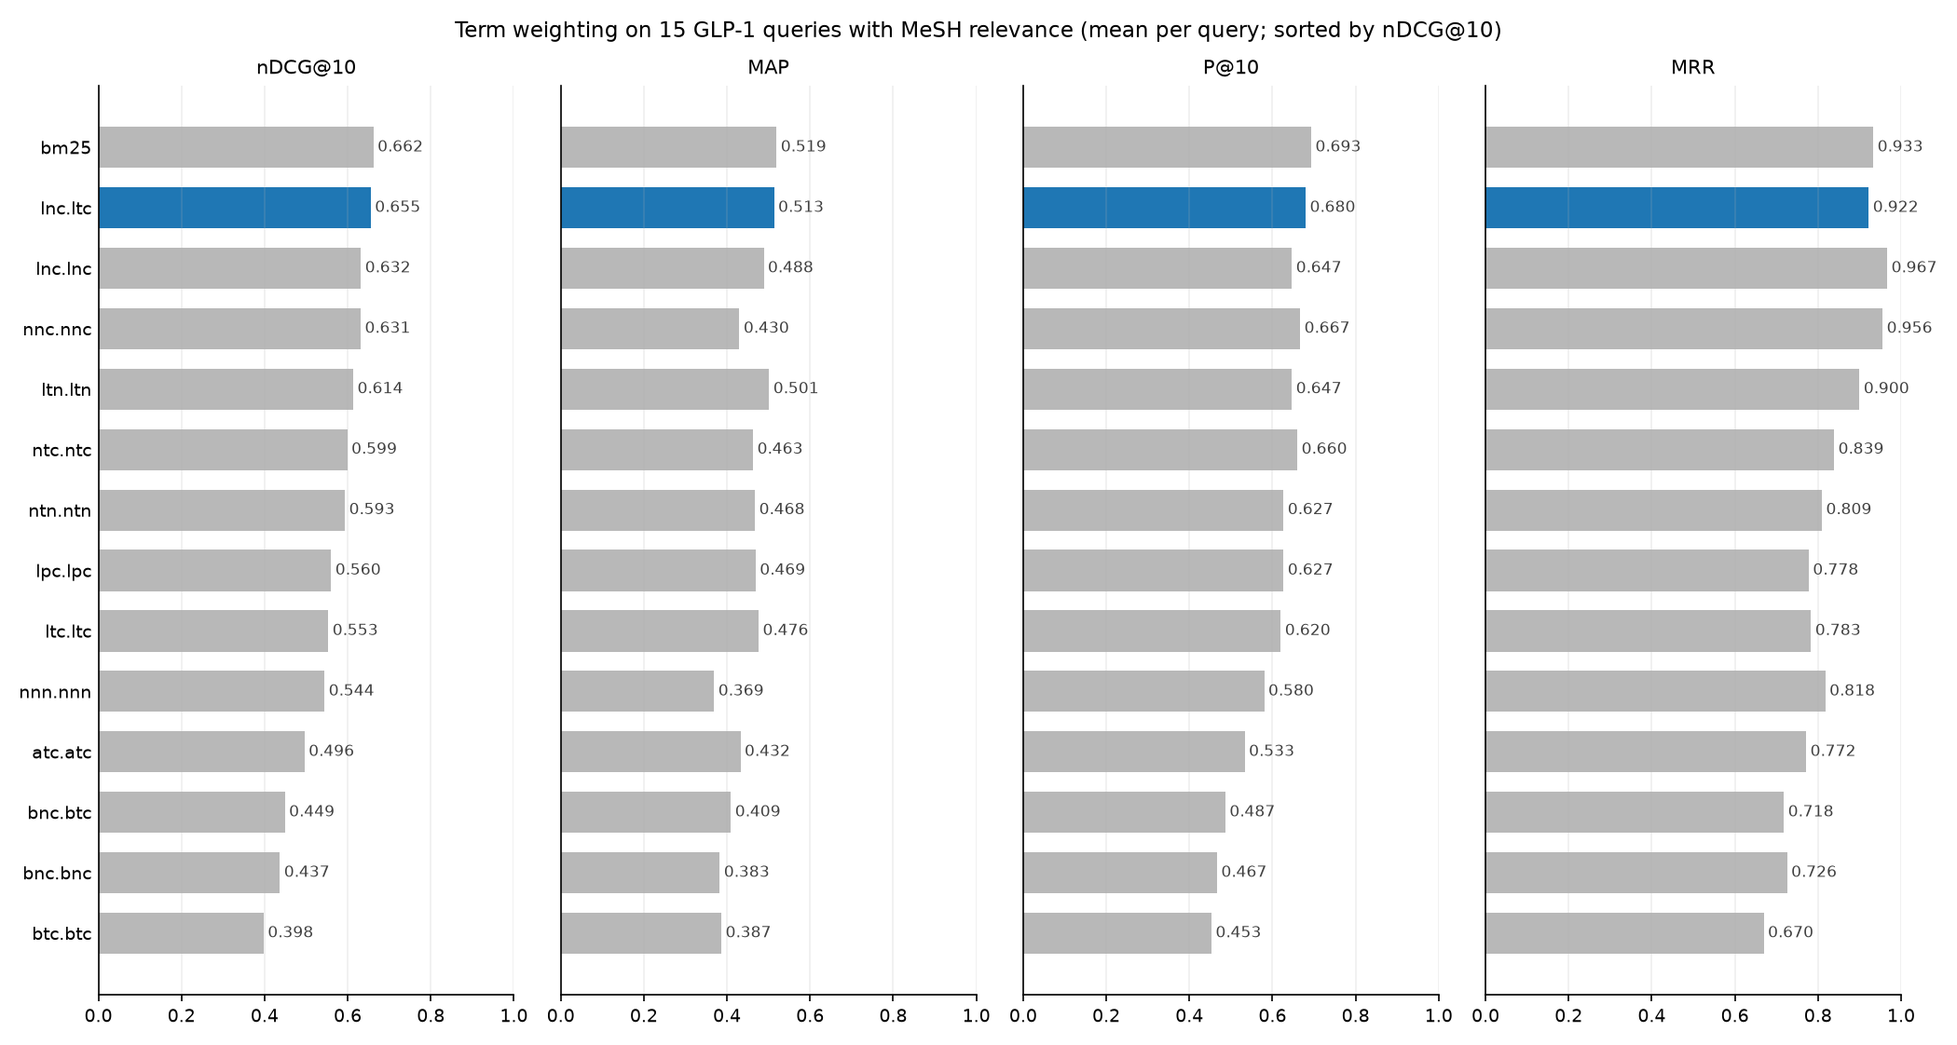
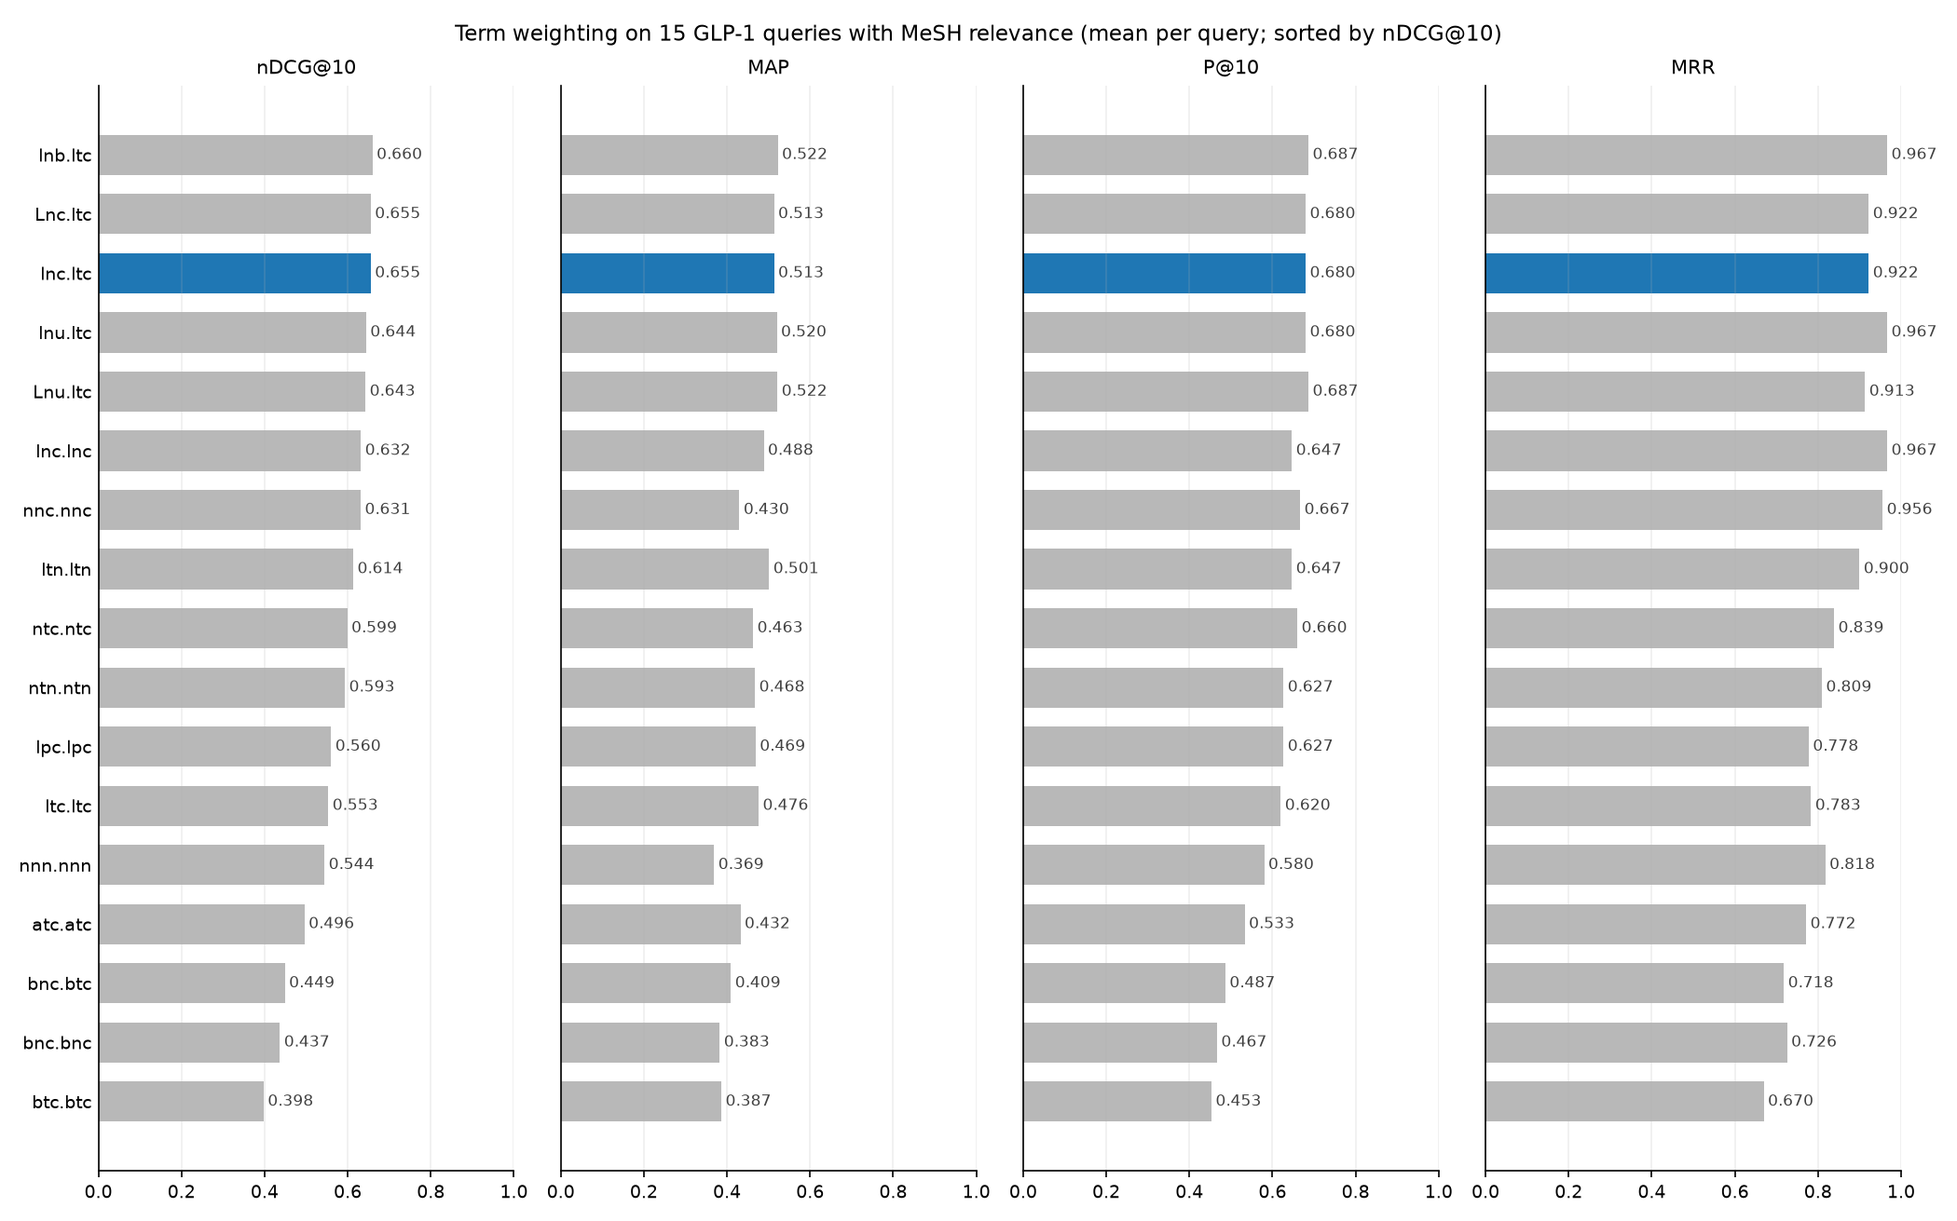
Complete the lecture's SMART weighting table and drop BM25 from homework 3
Add the remaining variants from Lecture 3's SMART table: TF L (log average),
normalization u (pivoted unique) and b (byte size), plus a configurable log base.
Letters are now case-sensitive, as in SMART.

The homework 3 comparisons now use only formulas from the lecture, so BM25 is
removed from the vector-space engine and experiment (the search page keeps it).
New tests reproduce the lecture's ltn.lnc example (3.08), check that the IDF log
base does not change cosine rankings, and that cosine cancels L.

Results are regenerated for 17 schemes; README documents the new RQ1/RQ4 findings
and that this project writes ddd.qqq while the lecture writes qqq.ddd.

diff --git a/tests/test_vsm.py b/tests/test_vsm.py
@@ -32,11 +32,62 @@ class WeightingTest(unittest.TestCase):
         self.assertAlmostEqual(Weighting("n", "p", "n").idf_weight(2, 8), math.log(3))
         self.assertEqual(Weighting("n", "p", "n").idf_weight(5, 8), 0.0)     # df above N/2
 
+    def test_log_average_tf_and_length_divisors(self):
+        L = Weighting("L", "n", "n")
+        self.assertAlmostEqual(L.tf_weight(4, 4, average_tf=2), (1 + math.log(4)) / (1 + math.log(2)))
+        self.assertEqual(L.tf_weight(2, 4, average_tf=2), 1.0)          # a term at the text's average
+        self.assertAlmostEqual(Weighting("l", "n", "c").divisor([3, 4], 2, 99, 50), 5.0)
+        self.assertAlmostEqual(Weighting("l", "n", "u").divisor([3, 4], 100, 99, 50), 0.8 * 50 + 0.2 * 100)
+        self.assertAlmostEqual(Weighting("l", "n", "b").divisor([3, 4], 2, 256, 50), 256 ** 0.375)
+        self.assertEqual(Weighting("l", "n", "n").divisor([3, 4], 2, 99, 50), 1.0)
+
+    def test_lecture_example_ltn_lnc(self):
+        """Lecture 3, "tf-idf example: ltn.lnc" — query "best car insurance", document
+        "car insurance auto insurance", N = 1,000,000, log base 10. The lecture writes
+        query.document; here that is the document scheme lnc with the query scheme ltn."""
+        N = 1_000_000
+        df = {"auto": 5000, "best": 50000, "car": 10000, "insurance": 1000}
+        query_tf = {"best": 1, "car": 1, "insurance": 1}
+        document_tf = {"auto": 1, "car": 1, "insurance": 2}
+        query, document = Weighting("l", "t", "n", base=10), Weighting("l", "n", "c", base=10)
+
+        q = {t: query.tf_weight(tf, 1) * query.idf_weight(df[t], N) for t, tf in query_tf.items()}
+        self.assertEqual([round(q[t], 1) for t in ("best", "car", "insurance")], [1.3, 2.0, 3.0])
+
+        d = {t: document.tf_weight(tf, 2) * document.idf_weight(df[t], N) for t, tf in document_tf.items()}
+        length = document.divisor(d.values(), 3, 0, 0)
+        self.assertAlmostEqual(length, 1.92, places=2)                  # √(1² + 1² + 1.3²)
+        d = {t: w / length for t, w in d.items()}
+        self.assertEqual([round(d[t], 2) for t in ("auto", "car", "insurance")], [0.52, 0.52, 0.68])
+
+        self.assertAlmostEqual(sum(q[t] * d.get(t, 0) for t in q), 3.08, delta=0.01)
+        # The lecture's 3.08 adds the rounded products 1.04 + 2.04; unrounded it is 3.07.
+        self.assertAlmostEqual(sum(round(q[t], 1) * round(d.get(t, 0), 2) for t in q), 3.08)
+
+    def test_idf_log_base_does_not_change_cosine(self):
+        """Lecture 3: "Why is the base of the log in idf immaterial?" — it rescales every IDF
+        by one constant, which L2 normalization cancels."""
+        space = VectorSpace(DOCS)
+        rankings = [[(h.pmid, round(h.score, 12)) for h in space.search("semaglutide insulin weight",
+                                                                        Scheme(Weighting("n", "t", "c", base),
+                                                                               Weighting("n", "t", "c", base))).hits]
+                    for base in (math.e, 10, 2)]
+        self.assertEqual(rankings[0], rankings[1])
+        self.assertEqual(rankings[0], rankings[2])
+
+    def test_cosine_cancels_log_average_tf(self):
+        """L divides every term of a document by the same 1 + log(ave tf), so after L2
+        normalization Lnc and lnc are the same vector; with u they are not."""
+        space = VectorSpace(DOCS)
+        scores = lambda code: [(h.pmid, round(h.score, 12)) for h in space.search("semaglutide weight", code).hits]
+        self.assertEqual(scores("Lnc.ltc"), scores("lnc.ltc"))
+        self.assertNotEqual(scores("Lnu.ltc"), scores("lnu.ltc"))
+
     def test_schemes(self):
-        scheme = Scheme.parse("LNC.ltc")
+        scheme = Scheme.parse("lnc.ltc")
         self.assertEqual((scheme.document.code, scheme.query.code, scheme.code), ("lnc", "ltc", "lnc.ltc"))
-        self.assertIsNone(Scheme.parse("bm25").document)
-        for bad in ("ltc", "xtc.ltc", "lnc.ltcc", "lnc-ltc"):
+        self.assertEqual(Scheme.parse("Lnu.ltc").document.describe(), "log average TF × no IDF, pivoted unique")
+        for bad in ("ltc", "xtc.ltc", "lnc.ltcc", "lnc-ltc", "LNC.ltc", "bm25"):
             with self.subTest(bad=bad), self.assertRaises(ValueError):
                 Scheme.parse(bad)
 
@@ -78,7 +129,7 @@ class EngineTest(unittest.TestCase):
         self.assertEqual(len(ranking.hits), 1)
         self.assertEqual(ranking.unknown, ["unicorn"])
         self.assertEqual(self.space.search("the of", "lnc.ltc").hits, [])
-        self.assertTrue(self.space.search("semaglutide weight", "bm25").hits)
+        self.assertTrue(self.space.search("semaglutide weight", "lnb.ltc").hits)
         # Ties are broken by PMID, so rankings are reproducible.
         tied = self.space.search("secretion", "bnc.bnc").hits
         self.assertEqual([h.pmid for h in tied], sorted(h.pmid for h in tied))
@@ -141,8 +192,8 @@ class ExperimentTest(unittest.TestCase):
                 {"id": "Q1", "query": "semaglutide weight", "mesh_all": ["Semaglutide"]},
                 {"id": "Q2", "query": "insulin secretion", "mesh_any": ["Insulin"]}]}), encoding="utf-8")
             self.assertEqual([q.id for q in load_queries(queries)], ["Q1", "Q2"])
-            summary = run(DOCS, queries, Path(folder, "out"), ["lnc.ltc", "ltc.ltc", "bm25"])
-            self.assertEqual([r["scheme"] for r in summary], ["lnc.ltc", "ltc.ltc", "bm25"])
+            summary = run(DOCS, queries, Path(folder, "out"), ["lnc.ltc", "ltc.ltc", "lnu.ltc"])
+            self.assertEqual([r["scheme"] for r in summary], ["lnc.ltc", "ltc.ltc", "lnu.ltc"])
             for name in ("summary", "per_query", "comparisons", "judgments", "idf", "tf_example", "length_bias"):
                 self.assertTrue(Path(folder, "out", f"{name}.csv").exists(), name)
             manifest = json.loads(Path(folder, "out", "manifest.json").read_text(encoding="utf-8"))

diff --git a/bioir/vsm/engine.py b/bioir/vsm/engine.py
@@ -6,14 +6,11 @@ from the title and abstract, as a bag of words: no phrases or Boolean operators.
 Scoring is term-at-a-time over an inverted index, so only documents sharing a query
 term are touched; document vector lengths are computed once per weighting.
 """
-import math
 from collections import Counter, defaultdict
 from dataclasses import dataclass, field
 
 from ..text import analyze
 from .weighting import Scheme, Weighting
-
-BM25_K1, BM25_B = 1.2, 0.75
 
 
 @dataclass
@@ -44,8 +41,10 @@ class VectorSpace:
                 self.postings[term][pmid] = count
         self.max_tf = {p: max(c.values(), default=0) for p, c in self.tf.items()}
         self.lengths = {p: sum(c.values()) for p, c in self.tf.items()}
-        self.average_length = sum(self.lengths.values()) / max(len(self.lengths), 1)
-        self._norms: dict[str, dict[str, float]] = {}
+        self.average_tf = {p: self.lengths[p] / len(c) if c else 1.0 for p, c in self.tf.items()}
+        self.characters = {p: len(d.title) + 1 + len(d.abstract) for p, d in self.documents.items()}
+        self.pivot = sum(len(c) for c in self.tf.values()) / max(len(self.tf), 1)   # mean distinct terms
+        self._norms: dict[Weighting, dict[str, float]] = {}
 
     def __len__(self):
         return len(self.documents)
@@ -55,35 +54,35 @@ class VectorSpace:
 
     def weight(self, weighting: Weighting, term: str, pmid: str) -> float:
         tf = self.tf[pmid].get(term, 0)
-        return weighting.tf_weight(tf, self.max_tf[pmid]) * weighting.idf_weight(self.df(term), len(self))
+        return (weighting.tf_weight(tf, self.max_tf[pmid], self.average_tf[pmid])
+                * weighting.idf_weight(self.df(term), len(self)))
 
     def norms(self, weighting: Weighting) -> dict[str, float]:
-        """L2 length of every document vector under a weighting (cached)."""
-        if weighting.code not in self._norms:
+        """Normalization divisor of every document under a weighting (cached): for "c" the
+        L2 length of its vector, which needs every term, not just the query's."""
+        if weighting not in self._norms:
             n = len(self)
-            idf = {t: weighting.idf_weight(len(p), n) for t, p in self.postings.items()}
-            self._norms[weighting.code] = {
-                pmid: math.sqrt(sum((weighting.tf_weight(tf, self.max_tf[pmid]) * idf[t]) ** 2
-                                    for t, tf in counts.items()))
+            idf = {t: weighting.idf_weight(len(p), n) for t, p in self.postings.items()} if weighting.norm == "c" else {}
+            self._norms[weighting] = {
+                pmid: weighting.divisor(
+                    (weighting.tf_weight(tf, self.max_tf[pmid], self.average_tf[pmid]) * idf[t]
+                     for t, tf in counts.items()) if idf else (),
+                    len(counts), self.characters[pmid], self.pivot)
                 for pmid, counts in self.tf.items()}
-        return self._norms[weighting.code]
+        return self._norms[weighting]
 
     def query_vector(self, query: str, weighting: Weighting) -> tuple[dict[str, float], list[str]]:
         counts = Counter(t for t, _ in analyze(query))
         unknown = sorted(t for t in counts if t not in self.postings)
         counts = {t: c for t, c in counts.items() if t in self.postings}
         top = max(counts.values(), default=1)
-        vector = {t: weighting.tf_weight(c, top) * weighting.idf_weight(self.df(t), len(self)) for t, c in counts.items()}
-        if weighting.norm == "c":
-            length = math.sqrt(sum(w * w for w in vector.values()))
-            vector = {t: w / length for t, w in vector.items()} if length else vector
+        average_tf = sum(counts.values()) / len(counts) if counts else 1.0
+        vector = {t: weighting.tf_weight(c, top, average_tf) * weighting.idf_weight(self.df(t), len(self))
+                  for t, c in counts.items()}
+        divisor = weighting.divisor(vector.values(), len(counts), len(query), self.pivot)
+        if divisor:
+            vector = {t: w / divisor for t, w in vector.items()}
         return {t: w for t, w in vector.items() if w}, unknown
-
-    def _bm25(self, term: str, pmid: str) -> float:
-        df, tf = self.df(term), self.tf[pmid][term]
-        idf = math.log(1 + (len(self) - df + 0.5) / (df + 0.5))
-        norm = BM25_K1 * (1 - BM25_B + BM25_B * self.lengths[pmid] / self.average_length)
-        return idf * tf * (BM25_K1 + 1) / (tf + norm)
 
     def search(self, query: str, scheme="lnc.ltc", k: int | None = None) -> Ranking:
         """Rank documents for a free-text query; k=None keeps every document that scores above 0."""
@@ -92,11 +91,10 @@ class VectorSpace:
         contributions: dict[str, dict[str, float]] = defaultdict(dict)
         for term, query_weight in vector.items():
             for pmid in self.postings[term]:
-                document_weight = (self._bm25(term, pmid) if scheme.document is None
-                                   else self.weight(scheme.document, term, pmid))
+                document_weight = self.weight(scheme.document, term, pmid)
                 if document_weight:
                     contributions[pmid][term] = query_weight * document_weight
-        if scheme.document is not None and scheme.document.norm == "c":
+        if scheme.document.norm != "n":
             norms = self.norms(scheme.document)
             contributions = {p: {t: v / norms[p] for t, v in parts.items()} for p, parts in contributions.items()}
         scored = sorted(((sum(parts.values()), pmid) for pmid, parts in contributions.items()),

diff --git a/bioir/vsm/weighting.py b/bioir/vsm/weighting.py
@@ -3,22 +3,37 @@
 A scheme is three letters — term frequency, document frequency, normalization —
 written separately for documents and queries: "lnc.ltc" weights documents with
 log TF, no IDF and cosine normalization, and queries with log TF, IDF and cosine.
+Letters are case-sensitive, as in SMART: "L" and "l" are different TF weights.
 
-    TF   n  raw tf                       l  1 + ln(tf)
+    TF   n  raw tf                       l  1 + log(tf)
          b  1 if the term occurs         a  0.5 + 0.5 · tf / max tf in the text
-    IDF  n  1 (none)                     t  ln(N / df)
-         p  max(0, ln((N − df) / df))    probabilistic
+         L  (1 + log tf) / (1 + log ave tf), ave tf = tokens / distinct terms in the text
+    IDF  n  1 (none)                     t  log(N / df)
+         p  max(0, log((N − df) / df))   probabilistic
     norm n  none                         c  divide by the vector's L2 length (cosine)
+         u  pivoted unique: divide by (1 − s) · pivot + s · distinct terms, where the
+            pivot is the corpus average of distinct terms per document and s = 0.2
+         b  byte size: divide by the text's length in characters ** α, α = 0.375
 
-"bm25" is accepted as a document scheme for reference: Okapi BM25 term weights
-(k1 = 1.2, b = 0.75) with binary query weights, i.e. the search page's ranking.
+Logs are natural by default. The base only rescales IDF by a constant, which L2
+normalization cancels, but it does change 1 + log(tf); base=10 reproduces the
+lecture's worked examples.
+
+Only the document side's normalization changes a ranking: a query's divisor is the
+same for every document.
+
+These are exactly the variants in Lecture 3's SMART table; the lecture gives u only
+as "1/u", so the pivot and slope are Singhal, Buckley & Mitra's, and α < 1 is ours.
 """
 import math
 from dataclasses import dataclass
 
-TF_CODES = {"n": "raw TF", "l": "log TF", "b": "binary", "a": "augmented TF"}
+TF_CODES = {"n": "raw TF", "l": "log TF", "b": "binary", "a": "augmented TF", "L": "log average TF"}
 IDF_CODES = {"n": "no IDF", "t": "IDF", "p": "probabilistic IDF"}
-NORM_CODES = {"n": "no normalization", "c": "L2 (cosine)"}
+NORM_CODES = {"n": "no normalization", "c": "L2 (cosine)", "u": "pivoted unique", "b": "byte size"}
+
+PIVOT_SLOPE = 0.2           # Singhal, Buckley & Mitra (1996)
+BYTE_SIZE_ALPHA = 0.375     # any α < 1 penalizes length less than proportionally
 
 
 @dataclass(frozen=True)
@@ -26,6 +41,7 @@ class Weighting:
     tf: str
     idf: str
     norm: str
+    base: float = math.e
 
     def __post_init__(self):
         if self.tf not in TF_CODES or self.idf not in IDF_CODES or self.norm not in NORM_CODES:
@@ -39,13 +55,18 @@ class Weighting:
     def describe(self) -> str:
         return f"{TF_CODES[self.tf]} × {IDF_CODES[self.idf]}, {NORM_CODES[self.norm]}"
 
-    def tf_weight(self, tf: int, max_tf: int) -> float:
+    def _log(self, x: float) -> float:
+        return math.log(x, self.base)
+
+    def tf_weight(self, tf: int, max_tf: int, average_tf: float = 1.0) -> float:
         if tf <= 0:
             return 0.0
         if self.tf == "n":
             return float(tf)
         if self.tf == "l":
-            return 1 + math.log(tf)
+            return 1 + self._log(tf)
+        if self.tf == "L":
+            return (1 + self._log(tf)) / (1 + self._log(average_tf))
         if self.tf == "b":
             return 1.0
         return 0.5 + 0.5 * tf / max_tf
@@ -54,30 +75,35 @@ class Weighting:
         if self.idf == "n":
             return 1.0
         if self.idf == "t":
-            return math.log(documents / df)
-        return max(0.0, math.log((documents - df) / df)) if df < documents else 0.0
+            return self._log(documents / df)
+        return max(0.0, self._log((documents - df) / df)) if df < documents else 0.0
+
+    def divisor(self, weights, distinct: int, characters: int, pivot: float) -> float:
+        """What a text's term weights are divided by: its normalization factor."""
+        if self.norm == "c":
+            return math.sqrt(sum(w * w for w in weights))
+        if self.norm == "u":
+            return (1 - PIVOT_SLOPE) * pivot + PIVOT_SLOPE * distinct
+        if self.norm == "b":
+            return characters ** BYTE_SIZE_ALPHA
+        return 1.0
 
 
 @dataclass(frozen=True)
 class Scheme:
-    document: Weighting | None      # None means BM25
+    document: Weighting
     query: Weighting
 
     @classmethod
     def parse(cls, text: str) -> "Scheme":
-        text = text.strip().lower()
-        if text == "bm25":
-            return cls(None, Weighting("b", "n", "n"))
-        parts = text.split(".")
+        parts = text.strip().split(".")
         if len(parts) != 2 or any(len(p) != 3 for p in parts):
-            raise ValueError(f"A scheme is 'ddd.qqq' in SMART notation (for example lnc.ltc) or bm25, not {text!r}")
+            raise ValueError(f"A scheme is 'ddd.qqq' in SMART notation (for example lnc.ltc), not {text!r}")
         return cls(Weighting(*parts[0]), Weighting(*parts[1]))
 
     @property
     def code(self) -> str:
-        return "bm25" if self.document is None else f"{self.document.code}.{self.query.code}"
+        return f"{self.document.code}.{self.query.code}"
 
     def describe(self) -> str:
-        if self.document is None:
-            return "Okapi BM25 (k1 = 1.2, b = 0.75), binary query"
         return f"documents: {self.document.describe()}; queries: {self.query.describe()}"

diff --git a/bioir/vsm/experiment.py b/bioir/vsm/experiment.py
@@ -40,13 +40,19 @@ SCHEMES = {
     "atc.atc": "augmented TF-IDF, cosine",
     "lpc.lpc": "log TF × probabilistic IDF, cosine",
     "lnc.ltc": "SMART classic: documents log TF cosine, queries log TF-IDF cosine",
-    "bm25": "Okapi BM25 (reference: a modified TF-IDF)",
+    "Lnc.ltc": "lnc.ltc with log average TF on documents (cosine cancels L: same ranking)",
+    "lnu.ltc": "lnc.ltc with pivoted unique normalization on documents",
+    "Lnu.ltc": "log average TF, pivoted unique (Singhal et al.'s Lnu)",
+    "lnb.ltc": "lnc.ltc with byte-size normalization on documents",
 }
 
 # (research question, what changes, baseline, variant)
 COMPARISONS = [
     ("RQ1", "raw → log TF (no IDF)", "nnc.nnc", "lnc.lnc"),
     ("RQ1", "raw → log TF (with IDF)", "ntc.ntc", "ltc.ltc"),
+    # Under cosine L only rescales a document by a constant, so Lnc.ltc ranks exactly like
+    # lnc.ltc; the comparison is meaningful with a normalization that ignores the weights.
+    ("RQ1", "log → log average TF (pivoted unique)", "lnu.ltc", "Lnu.ltc"),
     ("RQ2", "add IDF once (query side)", "lnc.lnc", "lnc.ltc"),
     ("RQ2", "IDF once → IDF on both sides (IDF²)", "lnc.ltc", "ltc.ltc"),
     ("RQ2", "add IDF to log TF on both sides", "lnc.lnc", "ltc.ltc"),
@@ -59,7 +65,9 @@ COMPARISONS = [
     ("RQ4", "add L2 normalization (log TF-IDF)", "ltn.ltn", "ltc.ltc"),
     ("RQ4", "add L2 normalization (raw TF-IDF)", "ntn.ntn", "ntc.ntc"),
     ("RQ4", "add L2 normalization (raw TF only)", "nnn.nnn", "nnc.nnc"),
-    ("RQ5", "best vector-space scheme → BM25", "lnc.ltc", "bm25"),
+    ("RQ4", "cosine → pivoted unique normalization", "lnc.ltc", "lnu.ltc"),
+    ("RQ4", "cosine → pivoted unique, with log average TF", "Lnc.ltc", "Lnu.ltc"),
+    ("RQ4", "cosine → byte-size normalization", "lnc.ltc", "lnb.ltc"),
 ]
 
 COMPARED_METRICS = ["P@10", "MAP", "nDCG@10", "MRR"]

diff --git a/bioir/__main__.py b/bioir/__main__.py
@@ -331,7 +331,7 @@ def main(argv=None) -> int:
     vs = vsm_commands.add_parser("search", help="rank documents by cosine (or inner product)")
     vs.add_argument("query", nargs="+")
     vs.add_argument("--corpus", type=Path, default=VSM_CORPUS)
-    vs.add_argument("--scheme", default="lnc.ltc", help="SMART ddd.qqq, e.g. lnc.ltc, ltc.ltc, nnn.nnn; or bm25")
+    vs.add_argument("--scheme", default="lnc.ltc", help="SMART ddd.qqq, e.g. lnc.ltc, ltc.ltc, lnu.ltc")
     vs.add_argument("-k", type=int, default=10)
     vs.add_argument("--explain", action="store_true", help="show each query term's share of the score")
     vs.set_defaults(run=vsm_search)

diff --git a/tests/test_web.py b/tests/test_web.py
@@ -89,7 +89,7 @@ class WebTest(unittest.TestCase):
 
     def test_vector_space_page(self):
         self.assertIn("SMART", self.get("/vsm"))
-        page = self.get("/vsm?query=semaglutide+weight&a=lnc.ltc&b=bm25")
+        page = self.get("/vsm?query=semaglutide+weight&a=lnc.ltc&b=lnu.ltc")
         self.assertIn("評估查詢 <strong>Q1</strong>", page)
         self.assertIn("★", page)
         self.assertIn("nDCG@10", page)
